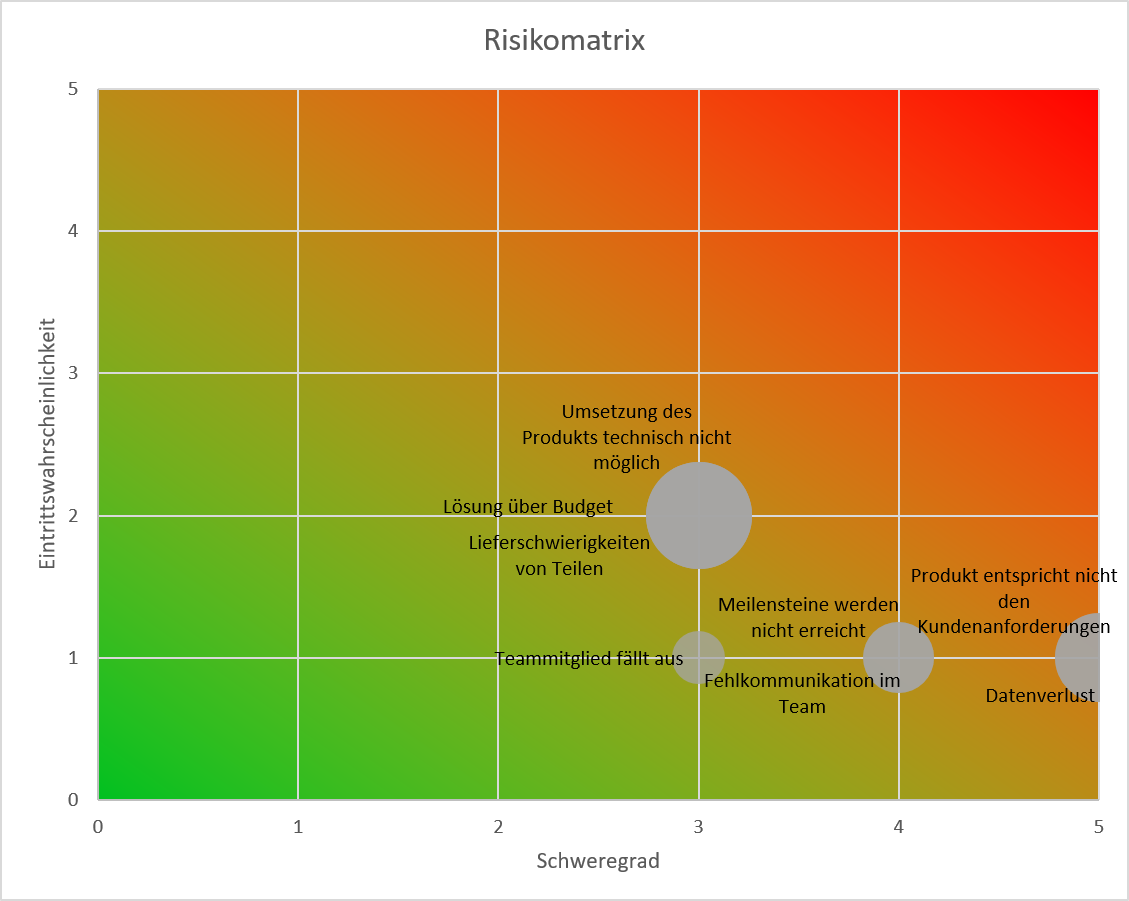
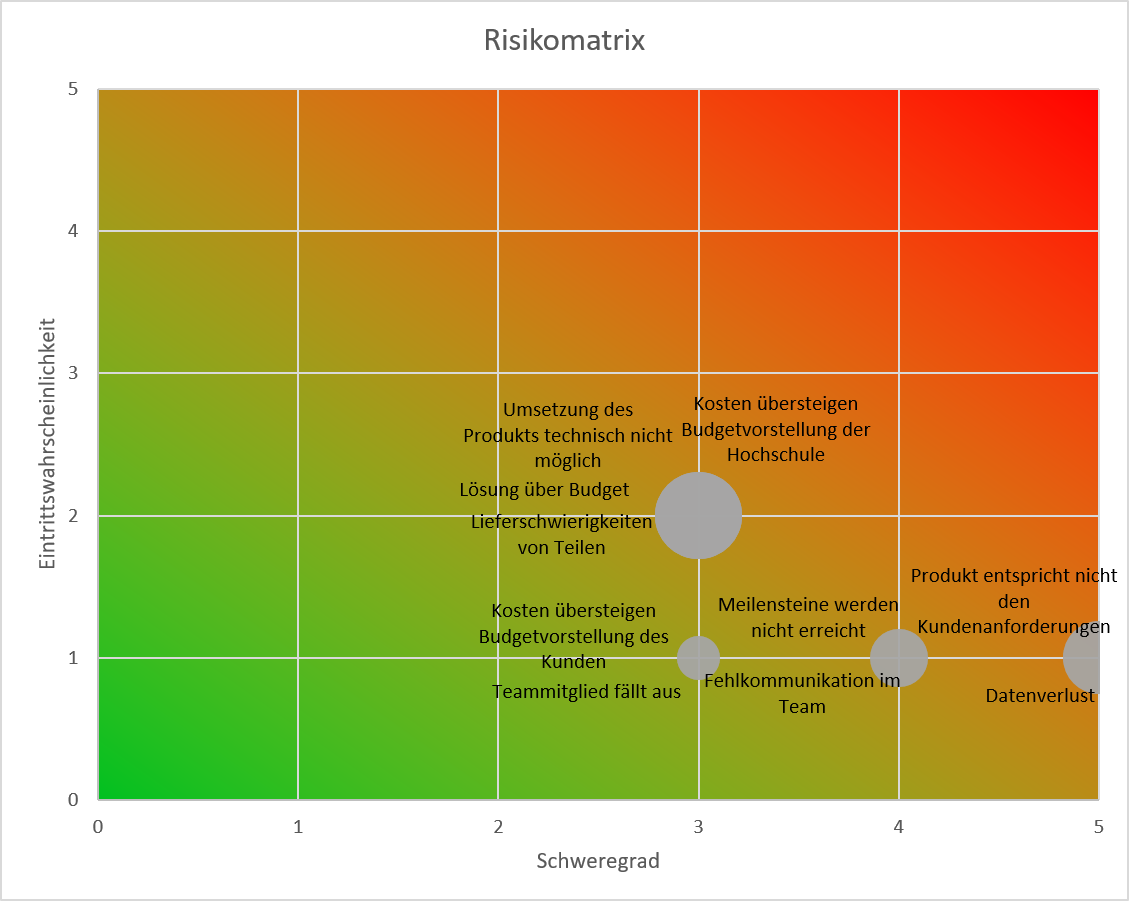
Split risk 8 into two separate risks
And evaluate these

diff --git a/include/Projektmanagementplan.tex b/include/Projektmanagementplan.tex
@@ -205,7 +205,9 @@ Legende:
 		\hline
 		7 & Lieferschwierigkeiten von Teilen & P & 3 & 3 & 9 \\
 		\hline
-		8 & Lösung über Budget & P & 3 & 3 & 9\\
+		8 & Kosten übersteigen Budgetvorstellung des Kunden & P & 3 & 2 & 6\\
+		\hline
+		9 & Kosten übersteigen Budgetvorstellung der Hochschule & P & 3 & 3 & 9\\
 		\hline
 	\end{tabularx}
 	\caption{Die im Projekt identifizierten Risiken}
@@ -243,7 +245,9 @@ Legende:
 		\hline
 		7 & Teile werden bei Bedarf sofort bestellt, es werden inländische, etablierte Lieferanten, vor evtl. günstigeren Ausländischen vorgezogen.\\
 		\hline
-		8 & Lösungskonzept wird in dieser Form verworfen und durch günstigere Komponenten ersetzt.\\
+		8 & Lösungskonzept wird in der erarbeiteten Form verworfen und durch günstigere Komponenten ersetzt.\\
+		\hline
+		9 & Es werden alternative Sponsoren von Geldmittel gesucht.\\
 		\hline
 	\end{tabularx}
 	\caption{Massnahmen um Effekte oder Eintrittswahrscheinlichkeit zu reduzieren}
@@ -270,7 +274,9 @@ Legende:
 		\hline
 		7 & Lieferschwierigkeiten von Teilen & P & 3 & 2 & 6 \\
 		\hline
-		8 & Lösung über Budget & P & 3 & 2 & 6 \\
+		8 & Kosten übersteigen Budgetvorstellung des Kunden & P & 3 & 1 & 3\\
+		\hline
+		9 & Kosten übersteigen Budgetvorstellung der Hochschule & P & 3 & 2 & 6\\
 		\hline
 	\end{tabularx}
 	\caption{Neueinschätzung der Risiken nach Einführung der Massnahmen}
